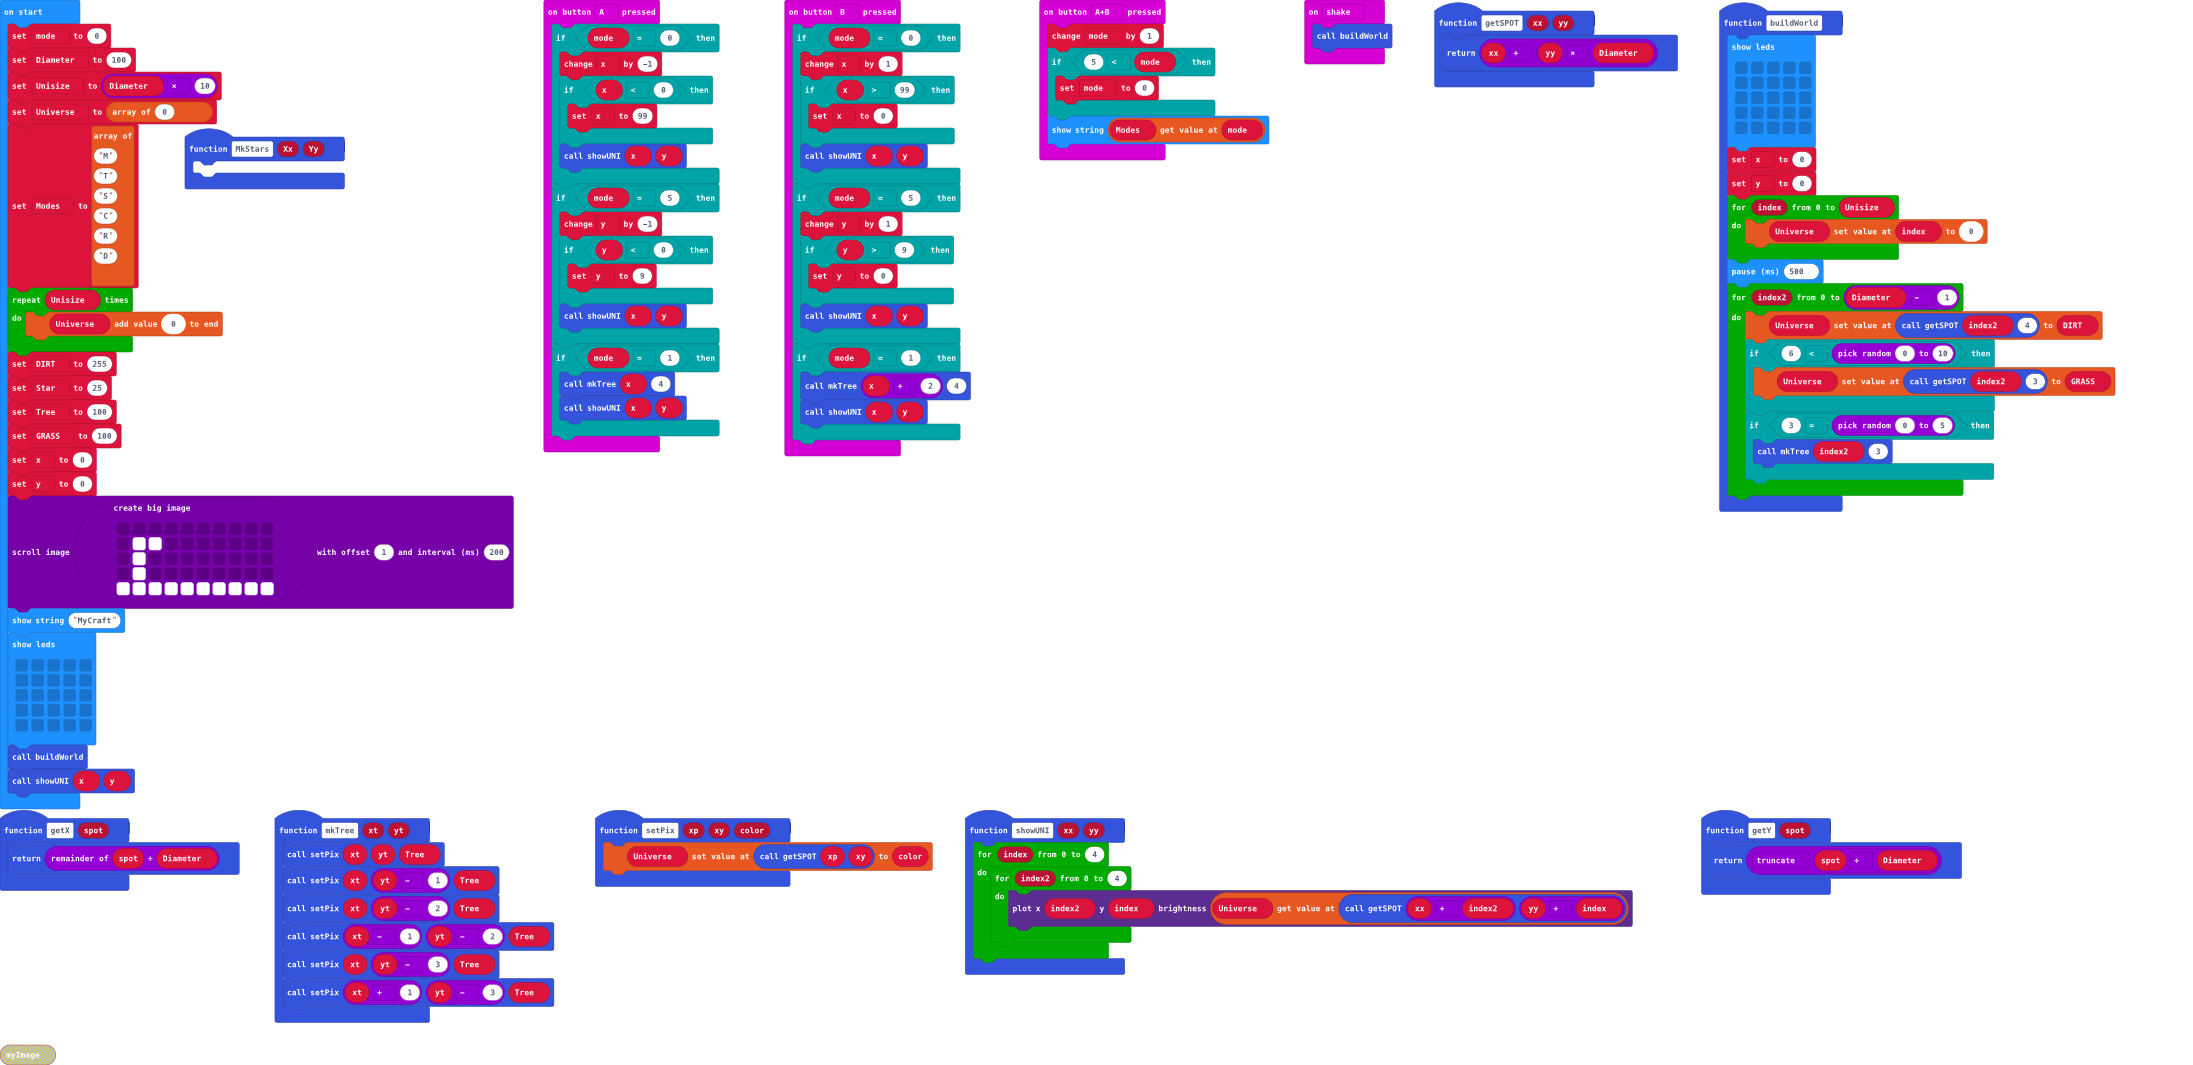
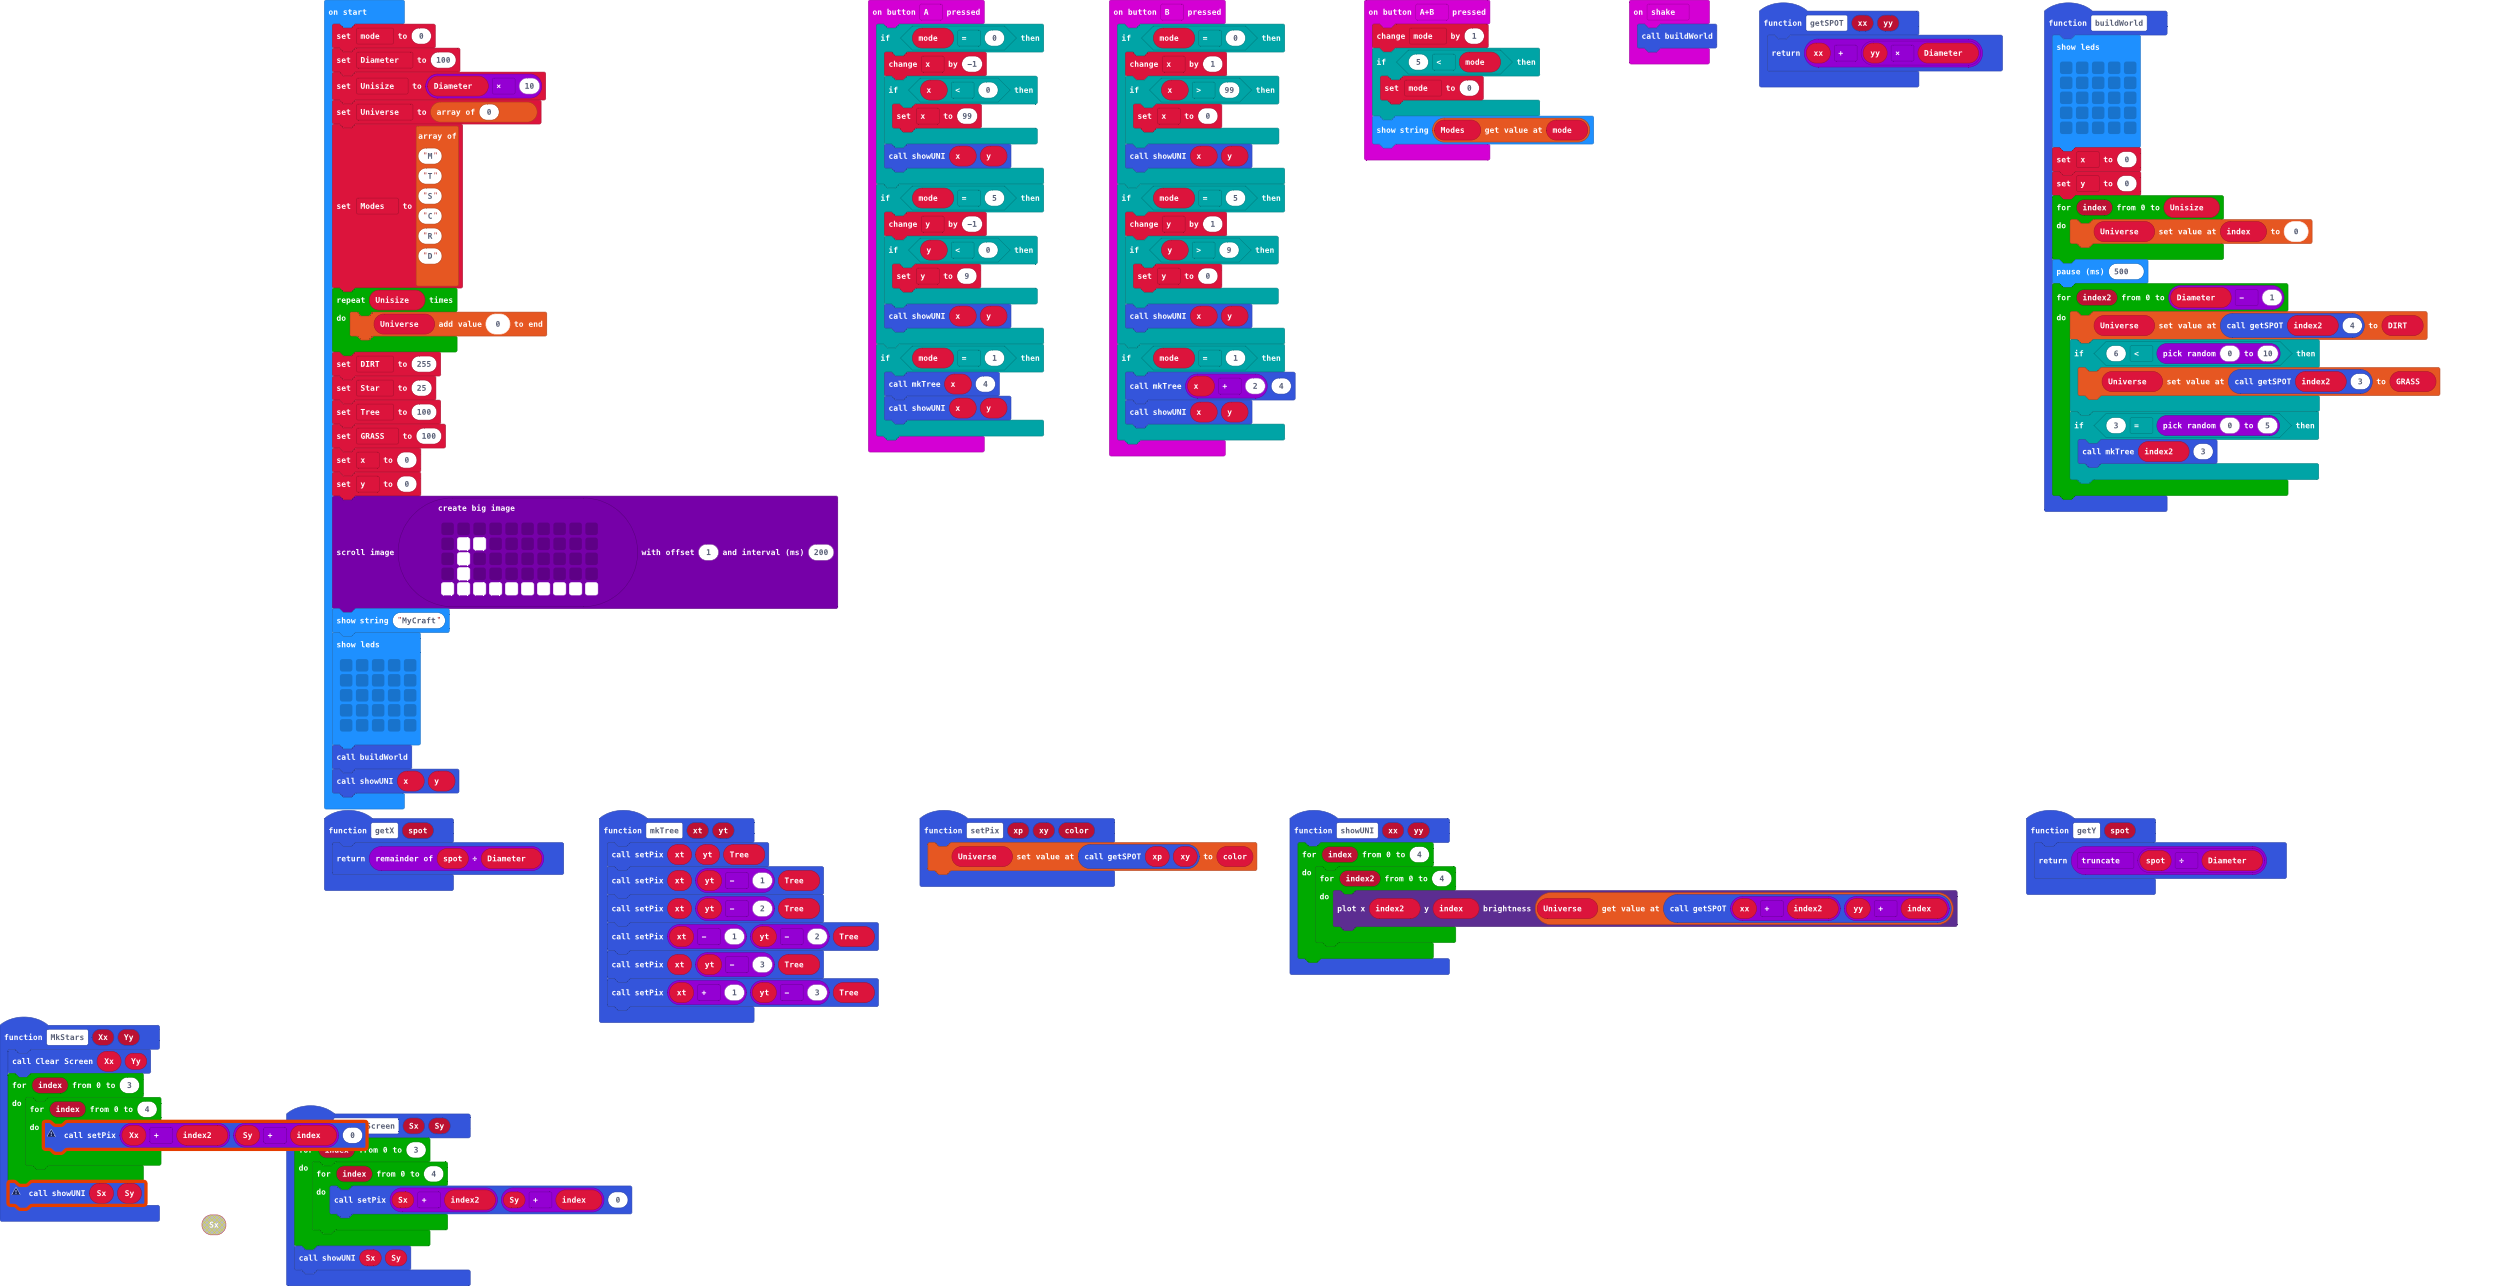
Update main.blocks, main.ts

diff --git a/main.ts b/main.ts
@@ -9,7 +9,13 @@ function showUNI (xx: number, yy: number) {
     }
 }
 function MkStars (Xx: number, Yy: number) {
-	
+    Clear_Screen(Xx, Yy)
+    for (let index = 0; index <= 3; index++) {
+        for (let index = 0; index <= 4; index++) {
+            setPix(Xx + index2, Sy + index, 0)
+        }
+    }
+    showUNI(Sx, Sy)
 }
 function buildWorld () {
     basic.showLeds(`
@@ -55,6 +61,14 @@ input.onButtonPressed(Button.A, function () {
         showUNI(x, y)
     }
 })
+function Clear_Screen (Sx: number, Sy: number) {
+    for (let index = 0; index <= 3; index++) {
+        for (let index = 0; index <= 4; index++) {
+            setPix(Sx + index2, Sy + index, 0)
+        }
+    }
+    showUNI(Sx, Sy)
+}
 input.onButtonPressed(Button.AB, function () {
     mode += 1
     if (5 < mode) {
@@ -102,6 +116,7 @@ function getSPOT (xx: number, yy: number) {
 function getX (spot: number) {
     return spot % Diameter
 }
+let index2 = 0
 let y = 0
 let x = 0
 let GRASS = 0
